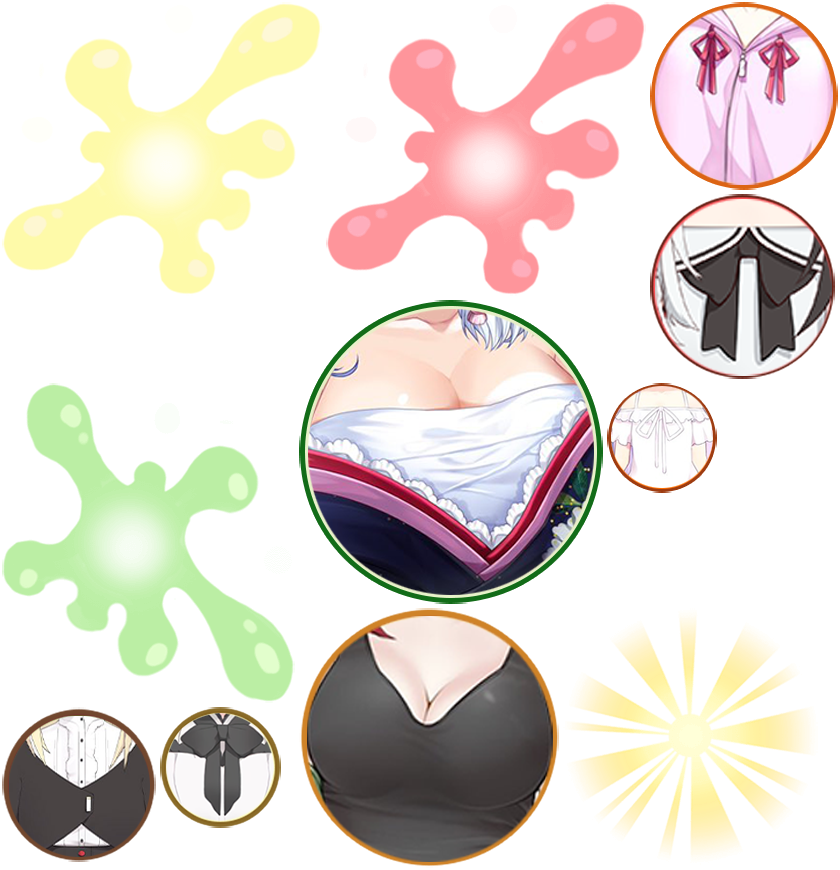
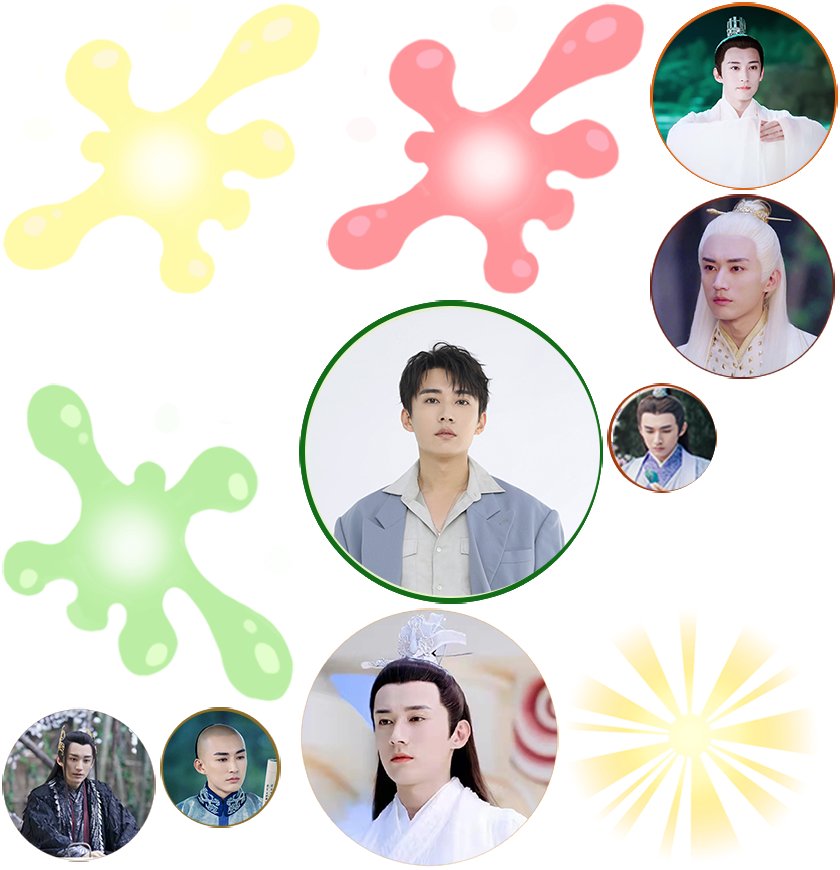
nitial commit

Changed region(s): [[0.0, 0.0, 1.0, 1.0]]

diff --git a/index.html b/index.html
@@ -1,10 +1,10 @@
-<!DOCTYPE html>
+<!DOCTYPE html>
 <html>
 
 <head>
     <meta charset="utf-8">
 
-    <title>合成大欧派</title>
+    <title>合成刘学义</title>
 
     <!--http://www.html5rocks.com/en/mobile/mobifying/-->
     <meta name="viewport" content="width=device-width,user-scalable=no,initial-scale=1, minimum-scale=1,maximum-scale=1" />
@@ -109,7 +109,7 @@
             //        console.log("window.navigator.language",window.navigator.language);
 
             if (window.navigator.language == "zh-CN" || window.navigator.language == "zh-cn") {
-                document.title = "合成大欧派";
+                document.title = "合成刘学义";
             } 
 
 
